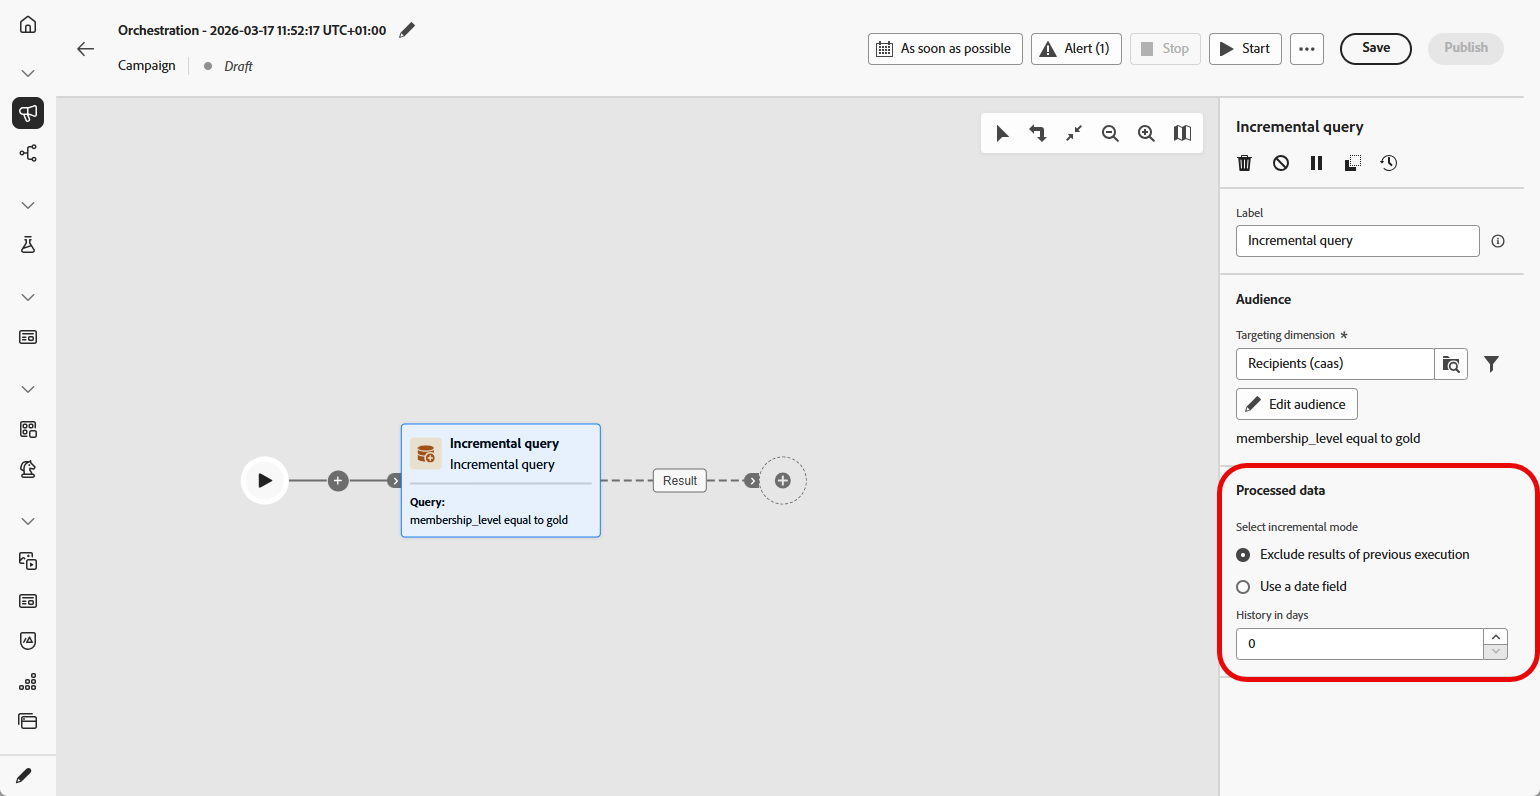
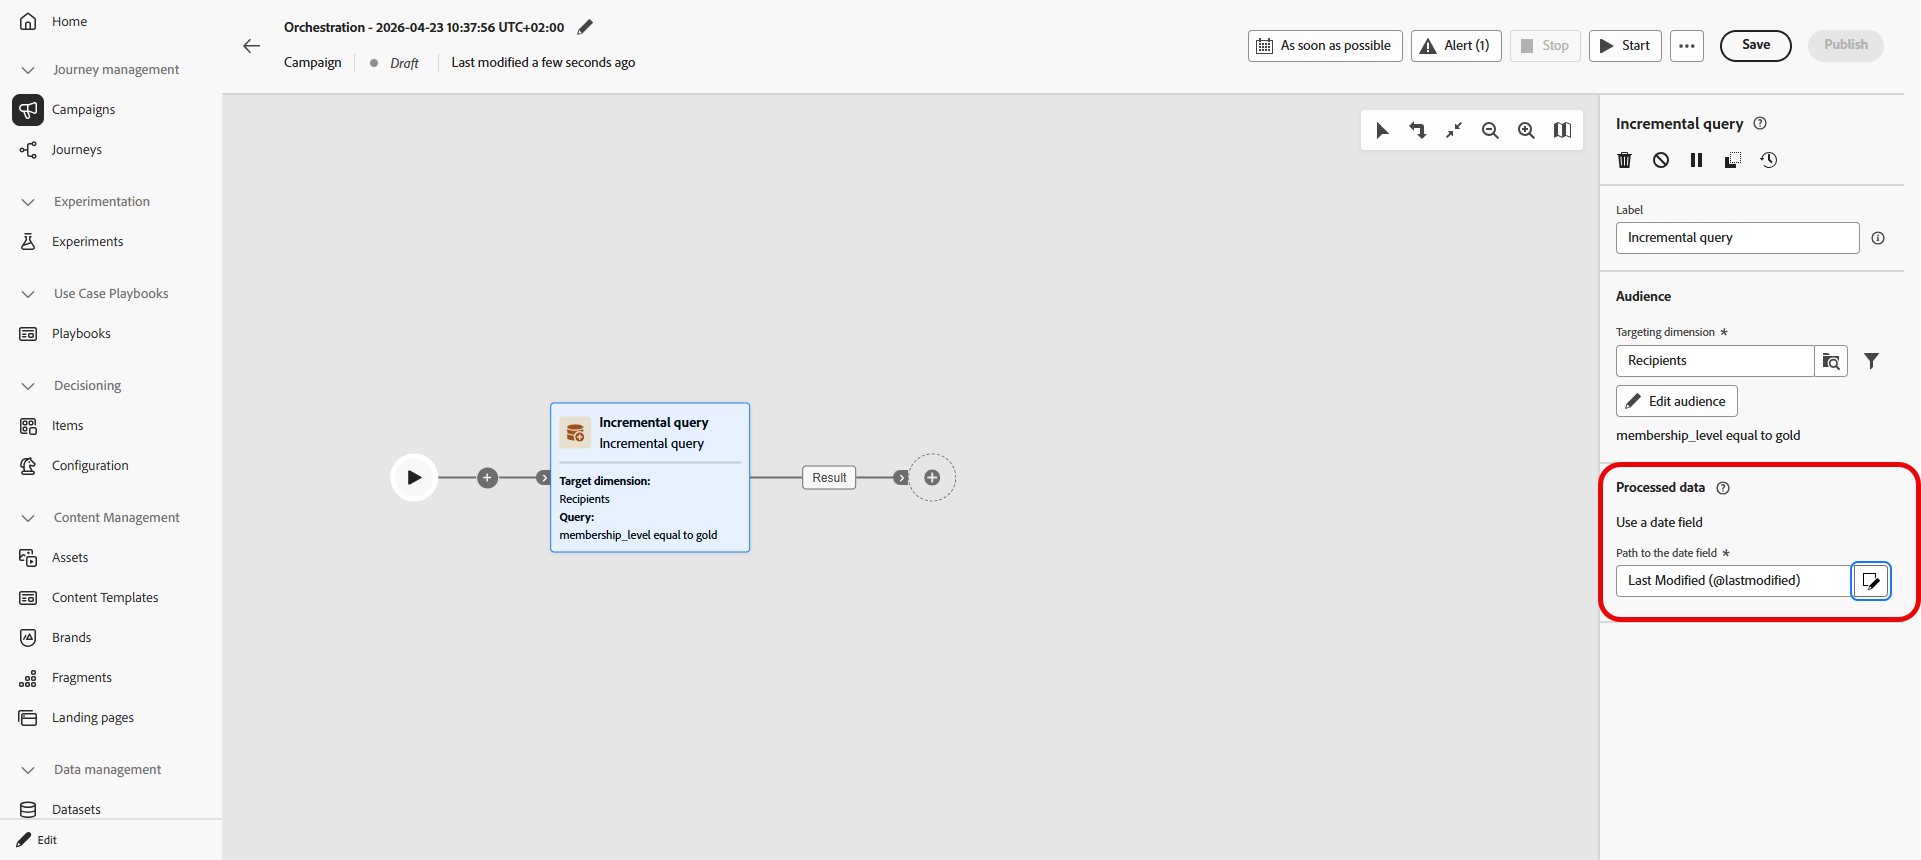
update

diff --git a/help/using/orchestrated/activities/incremental-query.md b/help/using/orchestrated/activities/incremental-query.md
@@ -52,18 +52,17 @@ Set the targeting dimension, build your query, and choose how the activity decid
 
      ![](../assets/incremental-query-2.png)
 
-1. Under **[!UICONTROL Processed data]**, choose how to exclude records from earlier runs:
+1. Under **[!UICONTROL Processed data]**, choose your **[!UICONTROL Path to the date field]**. Each run returns only rows whose date is after the last execution. 
 
+      ![Incremental query activity configuration in the Orchestrated campaign canvas](../assets/incremental-query-3.png)
+
+   <!--
    * **[!UICONTROL Exclude results of previous execution]**: The activity maintains a list of records returned in prior runs. Each run excludes those records and returns only new ones. **[!UICONTROL History in days]** controls the retention period for that list. 0 indicates indefinite retention, no records are removed.
 
       >[!IMPORTANT]
       >
       >This mode stores the primary key of each processed record. Personally identifiable information (PII) must not be used as the primary key.
-
-   * **[!UICONTROL Use a date field]**: The activity uses a selected date field instead of tracking individual IDs. Each run returns only rows whose date is after the last execution. 
-
-      ![Incremental query activity configuration in the Orchestrated campaign canvas](../assets/incremental-query-3.png)
-
+   -->
 ## Example {#incremental-query-example}
 
 The following example sends a welcome email to profiles who have just become gold members. The campaign can be scheduled to run weekly, every Monday. Each run targets only profiles that qualified for gold membership since the previous run, so each recipient receives the welcome email once.
